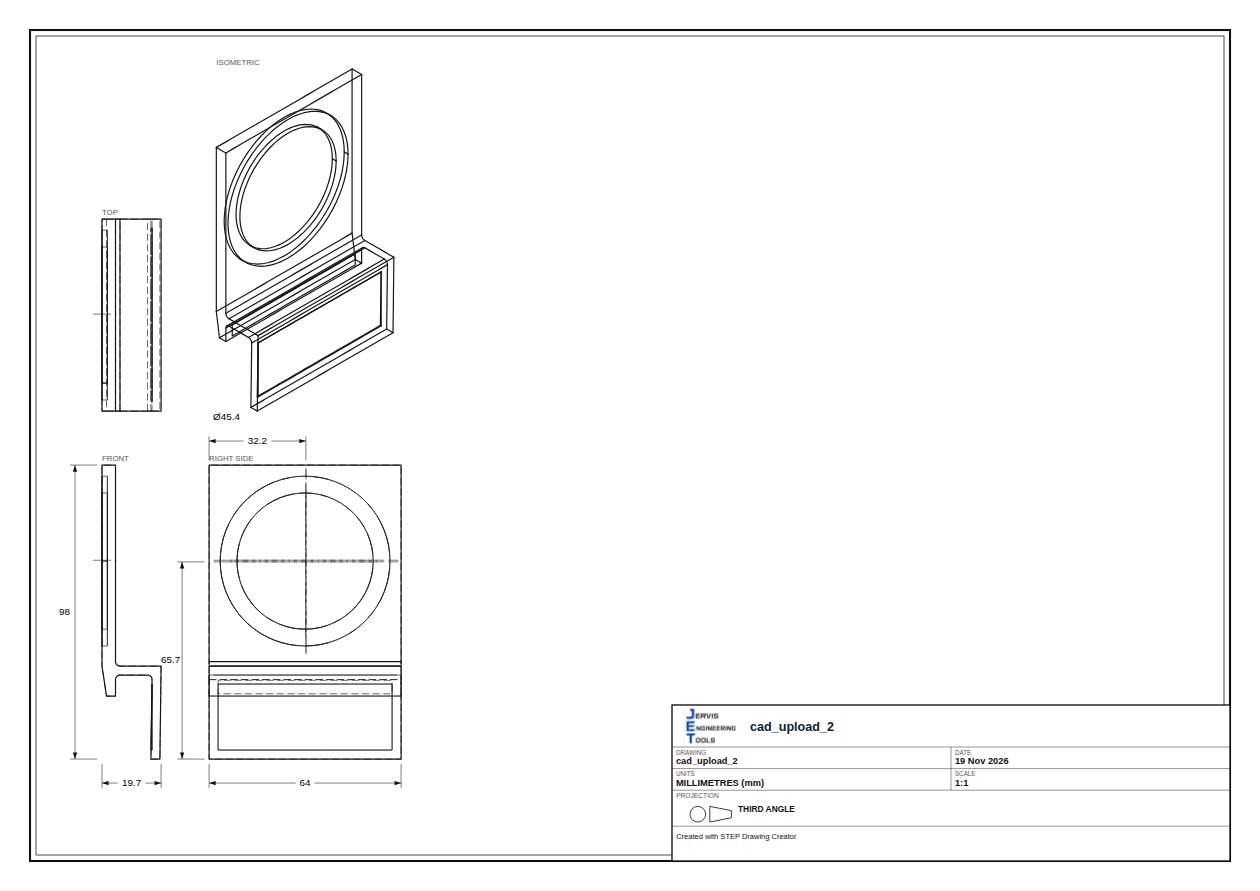
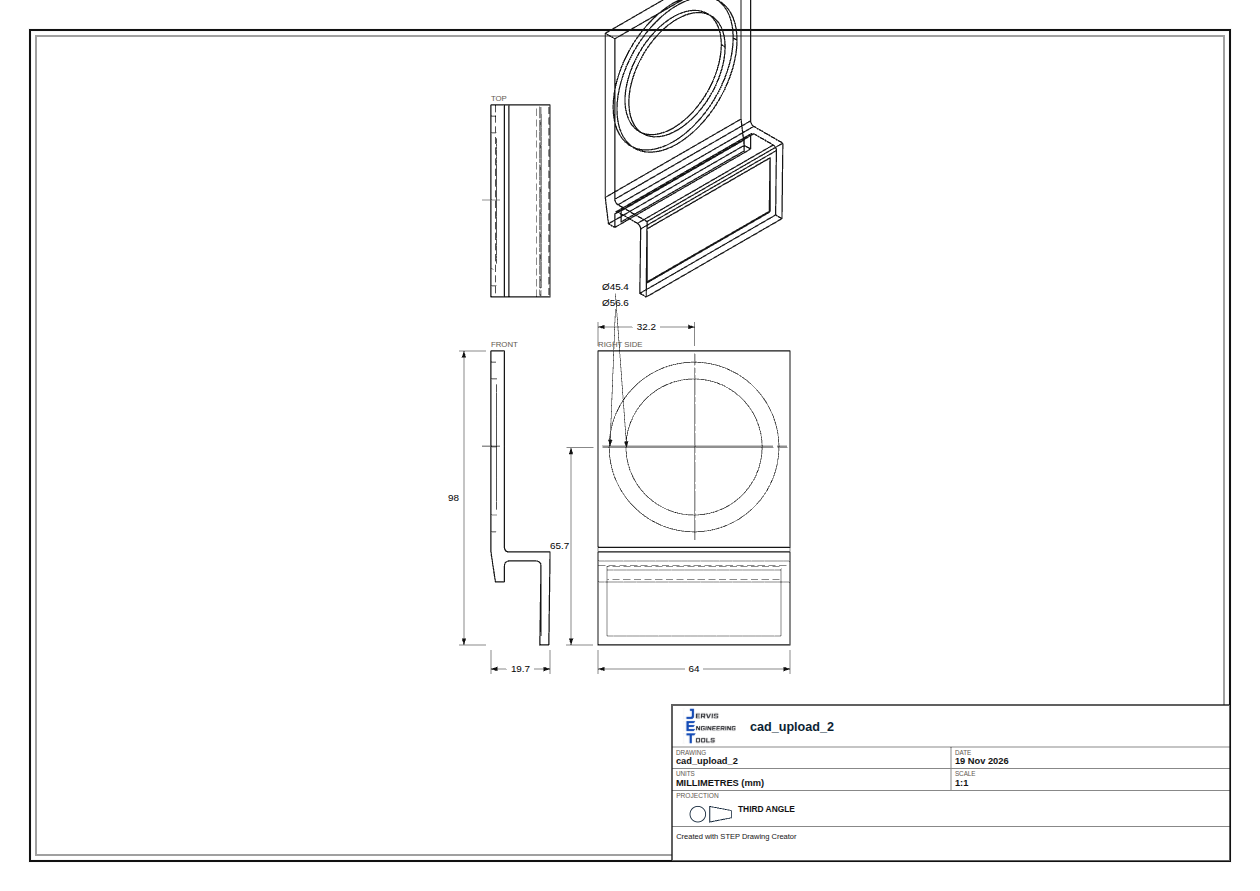
Update drawing and viewer images for the D1 review
Refresh the A3 sheets and add viewer shots for click-to-top, grid alignment and the grid hidden.

diff --git a/README.md b/README.md
@@ -45,3 +45,5 @@ The web app is a PWA (manifest, icons, and a service worker) so it can later be 
 
 - [three.js](https://github.com/mrdoob/three.js) 0.170.0, MIT. Copies are in `vendor/three`.
 - occt-import-js 0.0.23, GNU LGPL-2.1 (this is the licence the package publishes; it binds Open CASCADE). Copies and the licence texts are in `vendor/occt-import-js`. The JavaScript file has one added line, `export default occtimportjs;`, so the browser can load it as a module. The WebAssembly file is unchanged. See `vendor/occt-import-js/NOTICE.txt`.
+
+Diameters and radii are recognised by fitting each face of that mesh (plane, cylinder, cone, circle) and snapping a length when it is already within 0.15 mm of a sensible value. A full Open CASCADE WASM build that could read the analytic surfaces directly is about 49 MB (about 9 MB compressed) and was not added.
